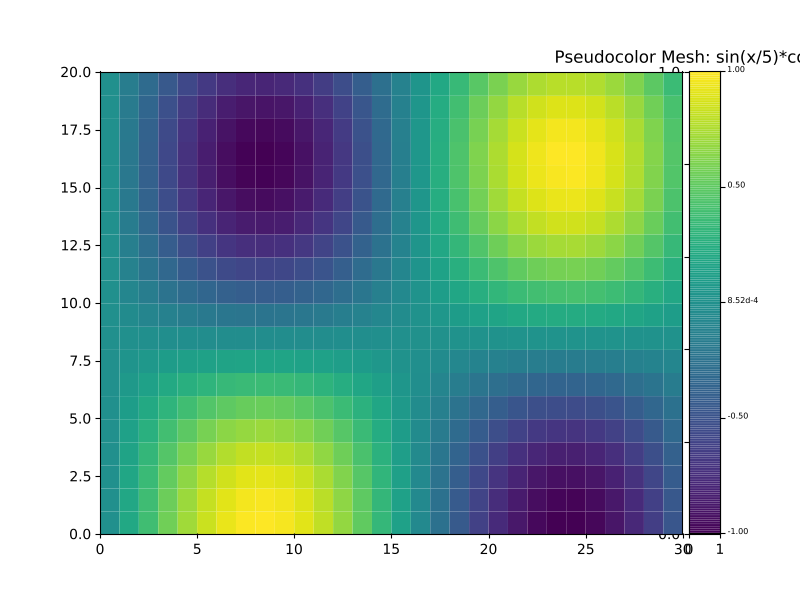
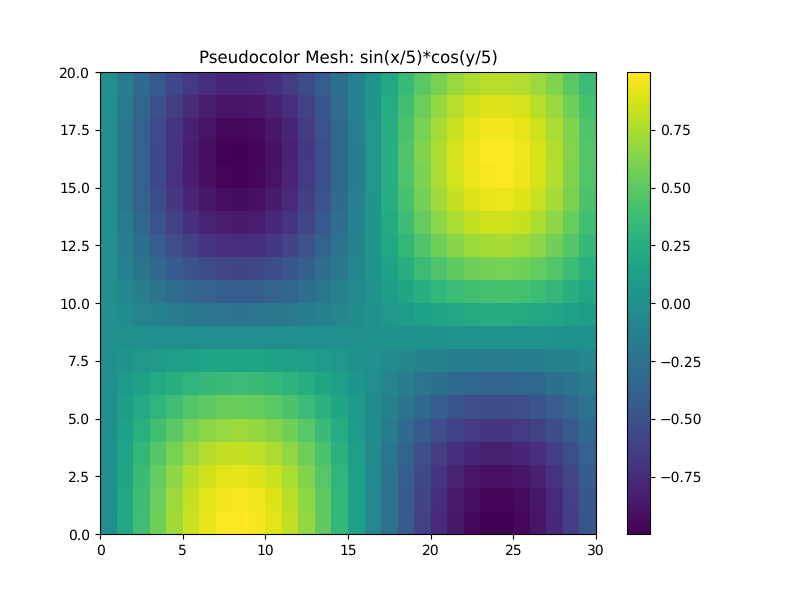
fix(examples): add missing reference script for pcolormesh example

diff --git a/reference_scripts/pcolormesh.py b/reference_scripts/pcolormesh.py
@@ -1,0 +1,20 @@
+import matplotlib
+matplotlib.use('Agg')
+import matplotlib.pyplot as plt
+import numpy as np
+
+plt.rcParams['savefig.dpi'] = 100
+plt.rcParams['text.hinting'] = 'none'
+
+fig, ax = plt.subplots(figsize=(8, 6))
+
+rows, cols = 20, 30
+data = np.array([[np.sin(j / 5.0) * np.cos(i / 5.0)
+                  for j in range(cols)]
+                 for i in range(rows)])
+
+mesh = ax.pcolormesh(data, cmap='viridis', shading='flat')
+fig.colorbar(mesh, ax=ax)
+ax.set_title('Pseudocolor Mesh: sin(x/5)*cos(y/5)')
+
+plt.savefig('reference_images/pcolormesh.png')
